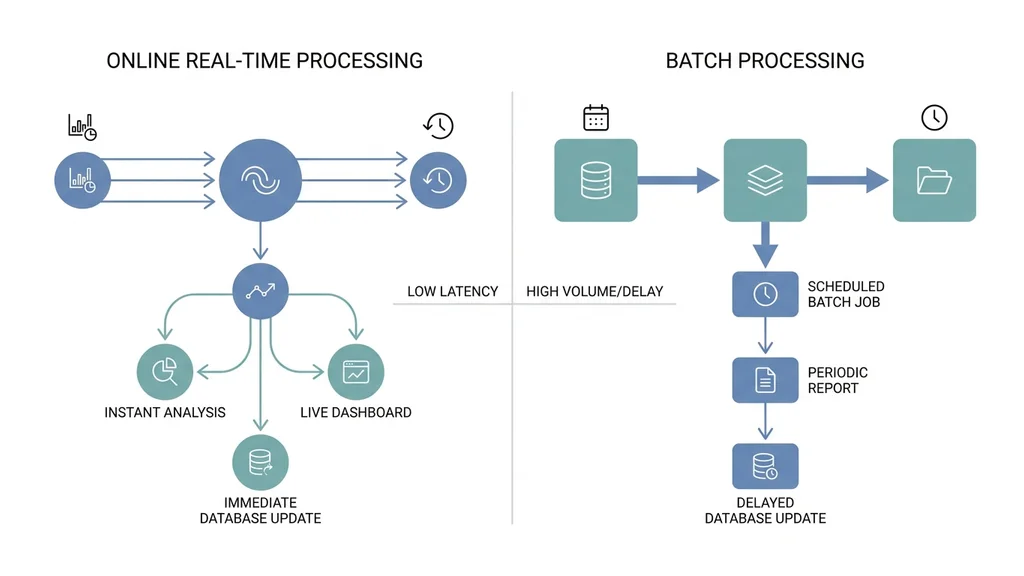
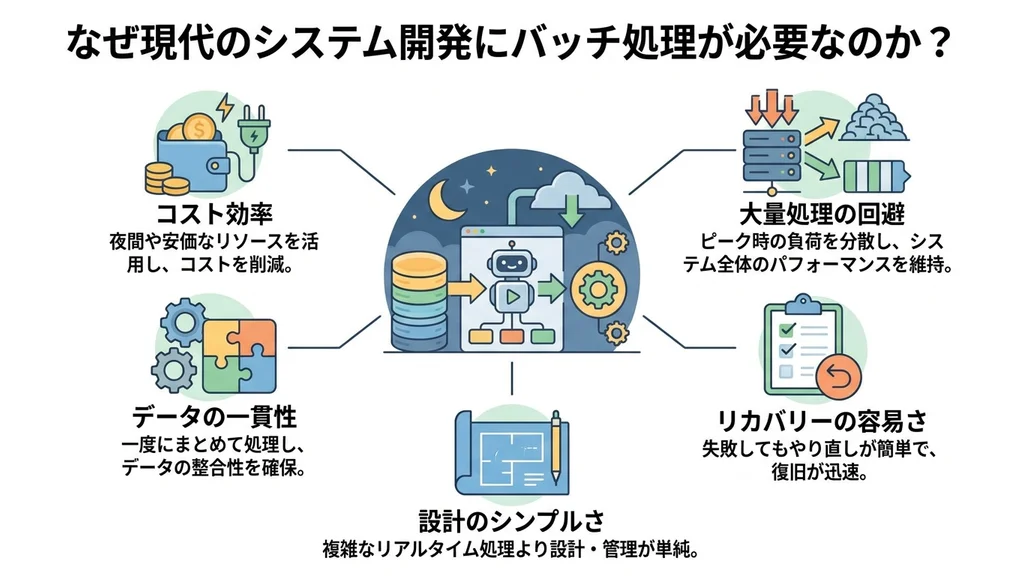
docs: add infographic and update documentation for batch processing overview

diff --git a/scripts/generate-infographic.ts b/scripts/generate-infographic.ts
@@ -15,7 +15,8 @@ interface InfographicPlan {
   targetLineText: string;
   reason: string;
   altText: string;
-  englishPrompt: string;
+  imagePrompt?: string;
+  englishPrompt?: string;
 }
 
 /**
@@ -174,7 +175,7 @@ async function main(): Promise<void> {
     console.log(`使用方法: bun run gen-info <slug>
 
 ブログ記事 (md/<slug>.md) の内容をAIで分析し、本文中の「いい感じの箇所（図解があると理解しやすいセクション）」を
-自動特定します。その後、生成AI (gemini-3-pro-image) を用いてシンプルでクリーンな図解インフォグラフィックを作成し、
+自動特定します。その後、生成AI (gemini-3-pro-image) を用いてフラットなイラスト調で自然な日本語文言入りの図解インフォグラフィックを作成し、
 16:9 (1024x576, WebP形式) にリサイズ・保存した上で、記事本文の該当位置にMarkdown画像リンクを設定します。
 `);
     process.exit(args.length === 0 ? 1 : 0);
@@ -200,6 +201,12 @@ async function main(): Promise<void> {
     process.exit(1);
   }
 
+  const imageModel = process.env.GEMINI_IMAGE_MODEL ?? 'gemini-3-pro-image';
+  const requestedImageSize = process.env.GEMINI_IMAGE_SIZE ?? '1K';
+  const imageSize = ['1K', '2K', '4K'].includes(requestedImageSize)
+    ? (requestedImageSize as '1K' | '2K' | '4K')
+    : '1K';
+
   const rawMarkdown = fs.readFileSync(mdPath, 'utf-8');
   const article = parseArticleFull(rawMarkdown);
   console.log(`[1/5] 記事 "md/${slug}.md" を読み込みました (タイトル: "${article.title}")`);
@@ -207,38 +214,35 @@ async function main(): Promise<void> {
   const ai = new GoogleGenAI({ apiKey });
 
   const promptBuilderQuery = `
-You are an expert technical blog visual designer and technical diagram prompt creator.
-Analyze the following Japanese blog article:
-- Title: "${article.title}"
-- Tags: ${JSON.stringify(article.tags)}
-- Category: "${article.category}"
-- Content (Markdown):
+あなたは技術ブログのビジュアルデザイナーおよび図解インフォグラフィックのプロンプト作成エキスパートです。
+以下の技術ブログ記事を分析してください：
+- タイトル: "${article.title}"
+- タグ: ${JSON.stringify(article.tags)}
+- カテゴリ: "${article.category}"
+- 本文 (Markdown):
 ${article.content.slice(0, 4000)}
 
-Your task is to:
-1. Identify the SINGLE best location in the Markdown content to insert a helpful infographic/diagram that illustrates the core concepts or workflows described in the article. Prefer inserting right AFTER a major heading (e.g. "## ...") or a key introductory paragraph.
-2. Generate ONE detailed English image generation prompt for Google GenAI (gemini-3.1-flash-lite-image) that creates a clean, simple, and modern technical infographic diagram.
-3. Provide a clear Japanese alt text for the markdown image tag.
+以下のタスクを実行してください：
+1. 本文の中で読者の理解を深めるために図解インフォグラフィックを挿入するのに最も適した箇所（見出しや主要な段落など）を1箇所だけ特定してください。できるだけ主要な見出し（例: "## ..."）や導入段落の直後を推奨します。
+2. そのセクションで解説されている中心的な概念や仕組み、ワークフローなどを解説する図解インフォグラフィックを生成AI (gemini-3-pro-image) で作成するための詳細な画像生成プロンプト (imagePrompt) を作成してください。
+3. 画像タグ用の分かりやすい日本語代替テキスト (altText) を作成してください。
 
-MANDATORY STYLE RULES FOR THE PROMPT (must be reflected in englishPrompt):
-- clean, simple, and modern minimalist technical infographic concept diagram illustrating the key architecture, workflow, or comparison from the target section
-- use simple network lines, clean arrows, well-balanced colorful nodes, professional flowchart motifs, and clear geometric shapes
-- modern minimalist palette with professional tech accent colors (e.g., muted blue, slate gray, teal, subtle orange) and generous whitespace
-- white or light off-white neutral background, clean crisp edges, high legibility, uncluttered technical illustration
-- DO NOT use pop-art style, ultra-bright saturated colors, or noisy decorative elements
-- NEVER include text, letters, characters, typography, or words in the image
-- STRICTLY append the following negative prompt keywords at the end of your prompt string:
-  "masterpiece --no pop-art, superflat, neon, ultra-bright colors, gradients, messy shading, blurry lines, text, characters, watermark, letters, words, writing"
+【画像生成プロンプト (imagePrompt) 作成時の要件】
+画像生成プロンプトには、以下の要件を必ず反映してください：
+・写実的（フォトリアル）なデザインではなく、フラットなイラストのデザインを基本とすること。
+・画像内に描画する見出し・ラベル・解説文字などの文言は、すべて自然な日本語とすること。
+・細かい構図や配色、文字の配置、モチーフなどの表現方法は、AIの自由な創造的判断に任せること。
+・対象セクションの内容を読者が視覚的に理解できるよう、記事内容に即した具体的な図解のテーマや解説内容（自然な日本語文言）をプロンプト内に指示すること。
 
-OUTPUT FORMAT:
-Return exactly ONE JSON object matching this schema (do NOT wrap in markdown code blocks if possible, output valid JSON):
+出力フォーマット：
+必ず以下のJSONスキーマに一致する1つのJSONオブジェクトのみを出力してください（Markdownコードブロックで囲まないこと）：
 {
-  "targetLineText": "The EXACT markdown heading line or paragraph text line from the article after which the image should be inserted (e.g. '## Gitの基本操作')",
+  "targetLineText": "記事内で画像を挿入する直前の行（正確なMarkdownの見出し行または段落テキスト。例: '## Gitの基本操作'）",
   "reason": "なぜここに図解を入れると分かりやすいかの理由（日本語）",
-  "altText": "画像の代替テキスト（日本語。例: 'Gitの基本操作イメージ図解'）",
-  "englishPrompt": "The English prompt string for image generation"
+  "altText": "画像の代替テキスト（日本語。例: 'Gitの基本操作の図解イメージ'）",
+  "imagePrompt": "gemini-3-pro-image に渡すための図解インフォグラフィック画像生成プロンプト（日本語）"
 }
-`;
+`.trim();
 
   console.log('[2/5] Gemini で記事本文を分析し、最適な図解挿入位置とプロンプトを構築中...');
   const textResponse = await ai.models.generateContent({
@@ -251,16 +255,26 @@ Return exactly ONE JSON object matching this schema (do NOT wrap in markdown cod
 
   const rawJsonText = textResponse.text || '{}';
   const plan = parseJsonSafe(rawJsonText);
+  const imagePrompt = plan.imagePrompt || plan.englishPrompt;
+  if (!imagePrompt) {
+    throw new Error('AIのレスポンスに画像生成プロンプト (imagePrompt) が含まれていませんでした。');
+  }
 
   console.log(`       特定された挿入位置: "${plan.targetLineText}"`);
   console.log(`       挿入の理由: ${plan.reason}`);
   console.log(`       代替テキスト: "${plan.altText}"`);
-  console.log(`       生成されたプロンプト:\n       "${plan.englishPrompt}"`);
+  console.log(`       生成されたプロンプト:\n       "${imagePrompt}"`);
 
-  console.log('[3/5] Nano Banana Pro (gemini-3-pro-image) で図解インフォグラフィックを作成中...');
+  console.log(`[3/5] ${imageModel} で図解インフォグラフィックを作成中...`);
   const interaction = await ai.interactions.create({
-    model: 'gemini-3-pro-image',
-    input: plan.englishPrompt,
+    model: imageModel,
+    input: imagePrompt,
+    response_format: {
+      type: 'image',
+      mime_type: 'image/jpeg',
+      aspect_ratio: '16:9',
+      image_size: imageSize,
+    },
   });
 
   const generatedImage = interaction.output_image;

diff --git a/README.md b/README.md
@@ -122,7 +122,7 @@ bun run type-check
 
 ##### AIによるサムネイル・図解インフォグラフィック自動生成
 
-ブログ記事 (`md/<slug>.md`) を対象に、Google GenAI (Gemini / Nano Banana 2 Lite `gemini-3.1-flash-lite-image`) を使用して、記事のサムネイル画像および本文内の解説用図解インフォグラフィックを自動生成・変換・自動設定するコマンドが利用できます。
+ブログ記事 (`md/<slug>.md`) を対象に、Google GenAI (`gemini-3.5-flash-lite` / `gemini-3-pro-image`) を使用して、記事のサムネイル画像および本文内の解説用図解インフォグラフィックを自動生成・変換・自動設定するコマンドが利用できます。
 ご使用の際は、事前に `.env.local` に `GEMINI_API_KEY=<あなたのAPIキー>` を設定してください。
 
 ###### 1. サムネイルの自動生成 (`generate-thumbnail.ts` / `generate-thumbnail-ai.ts`)
@@ -136,7 +136,7 @@ bun run gen-thumb-ai <slug>
 ```
 
 ###### 2. 本文内・図解インフォグラフィックの自動生成 (`generate-infographic.ts`)
-記事本文をAIが分析して読者の理解を深める最適な図解挿入位置（セクション見出し等）を自動特定し、記事内容を解説する **シンプル＆クリーンな技術ドキュメント風インフォグラフィック (clean, simple, and modern technical diagram)** を 16:9 (1024x576 / WebP形式) で自動生成・保存の上、記事 Markdown 本文の該当箇所に Markdown 画像リンクを自動挿入（既存の画像タグがある場合は更新のみ実行）します。
+記事本文をAIが分析して読者の理解を深める最適な図解挿入位置（セクション見出し等）を自動特定し、記事内容を解説する **フラットイラスト調で自然な日本語文言入りの図解インフォグラフィック** を 16:9 (1024x576 / WebP形式) で自動生成・保存の上、記事 Markdown 本文の該当箇所に Markdown 画像リンクを自動挿入（既存の画像タグがある場合は更新のみ実行）します。
 ```bash
 bun run gen-info <slug>
 # または

diff --git a/md/why-we-need-batch-processing.md b/md/why-we-need-batch-processing.md
@@ -21,7 +21,7 @@ image: why-we-need-batch-processing-thumb.webp
 
 ## バッチ処理が必要な5つの本質的理由
 
-![オンライン処理とバッチ処理の選択理由を比較するシステムアーキテクチャ図解](/images/why-we-need-batch-processing-infographic.webp)
+![現代のシステム開発にバッチ処理が必要な5つの理由を解説するインフォグラフィックの図解](/images/why-we-need-batch-processing-infographic.webp)
 
 
 バッチ処理を採用する理由は、単に「昔からの慣習だから」ではありません。すべてをオンラインでリアルタイム処理しようとすると、コスト、システム負荷、データ整合性、運用難易度といったあらゆる面で破綻を来すからです。
@@ -31,8 +31,6 @@ image: why-we-need-batch-processing-thumb.webp
 
 一方、即時性を必要としないバッチ処理であれば、アクセス負荷の低い時間帯（夜間など）にまとめてリソースを割り当て、**CPUやメモリの限界（100%近く）まで負荷をかけて効率的に使い切る**ことができます。
 クラウドネイティブな環境であれば、スポットインスタンス（AWS Spot Instancesなど）のような通常より大幅に安価なコンピューティングリソースを活用して、オフピーク時に大量の処理を格安で走らせることが可能です。同じ処理量であっても、バッチ処理とオンライン処理ではインフラコストに数倍から数十倍の開きが出ることが珍しくありません。
-
-![オンライン処理とバッチ処理のリソース使用パターンの比較](/images/batch-vs-online-resource.webp)
 
 ### 2. 膨大すぎる処理量とシステム負荷の回避
 数百万件〜数十億件のデータを1件ずつリアルタイムでオンライン処理しようとすると、システムの随所でボトルネックが発生します。

diff --git a/AGENTS.md b/AGENTS.md
@@ -11,7 +11,7 @@
 - AI 画像生成コマンド:
   - `bun run gen-thumb <slug>` : 記事（`md/<slug>.md`）のフラットポップ調サムネイル画像を生成・保存しフロントマターを自動更新（`scripts/generate-thumbnail.ts`）。
   - `bun run gen-thumb-ai <slug>` : 記事（`md/<slug>.md`）の内容をもとに、AIに文言の生成・イラスト描画まで任せて YouTube サムネイル風のフラットイラスト画像を直接生成・保存しフロントマターを自動更新（`scripts/generate-thumbnail-ai.ts`）。
-  - `bun run gen-info <slug>` （または `bun run gen-infographic <slug>`） : 記事本文を解析して最適な図解挿入位置を特定し、シンプルでクリーンな技術ドキュメント風インフォグラフィック図を生成・保存した上で Markdown 本文に自動設定・更新する（`scripts/generate-infographic.ts`）。
+  - `bun run gen-info <slug>` （または `bun run gen-infographic <slug>`） : 記事本文を解析して最適な図解挿入位置を特定し、フラットイラスト調で自然な日本語文言入りの図解インフォグラフィック画像を生成・保存した上で Markdown 本文に自動設定・更新する（`scripts/generate-infographic.ts`）。
 
 ## アーキテクチャ
 
